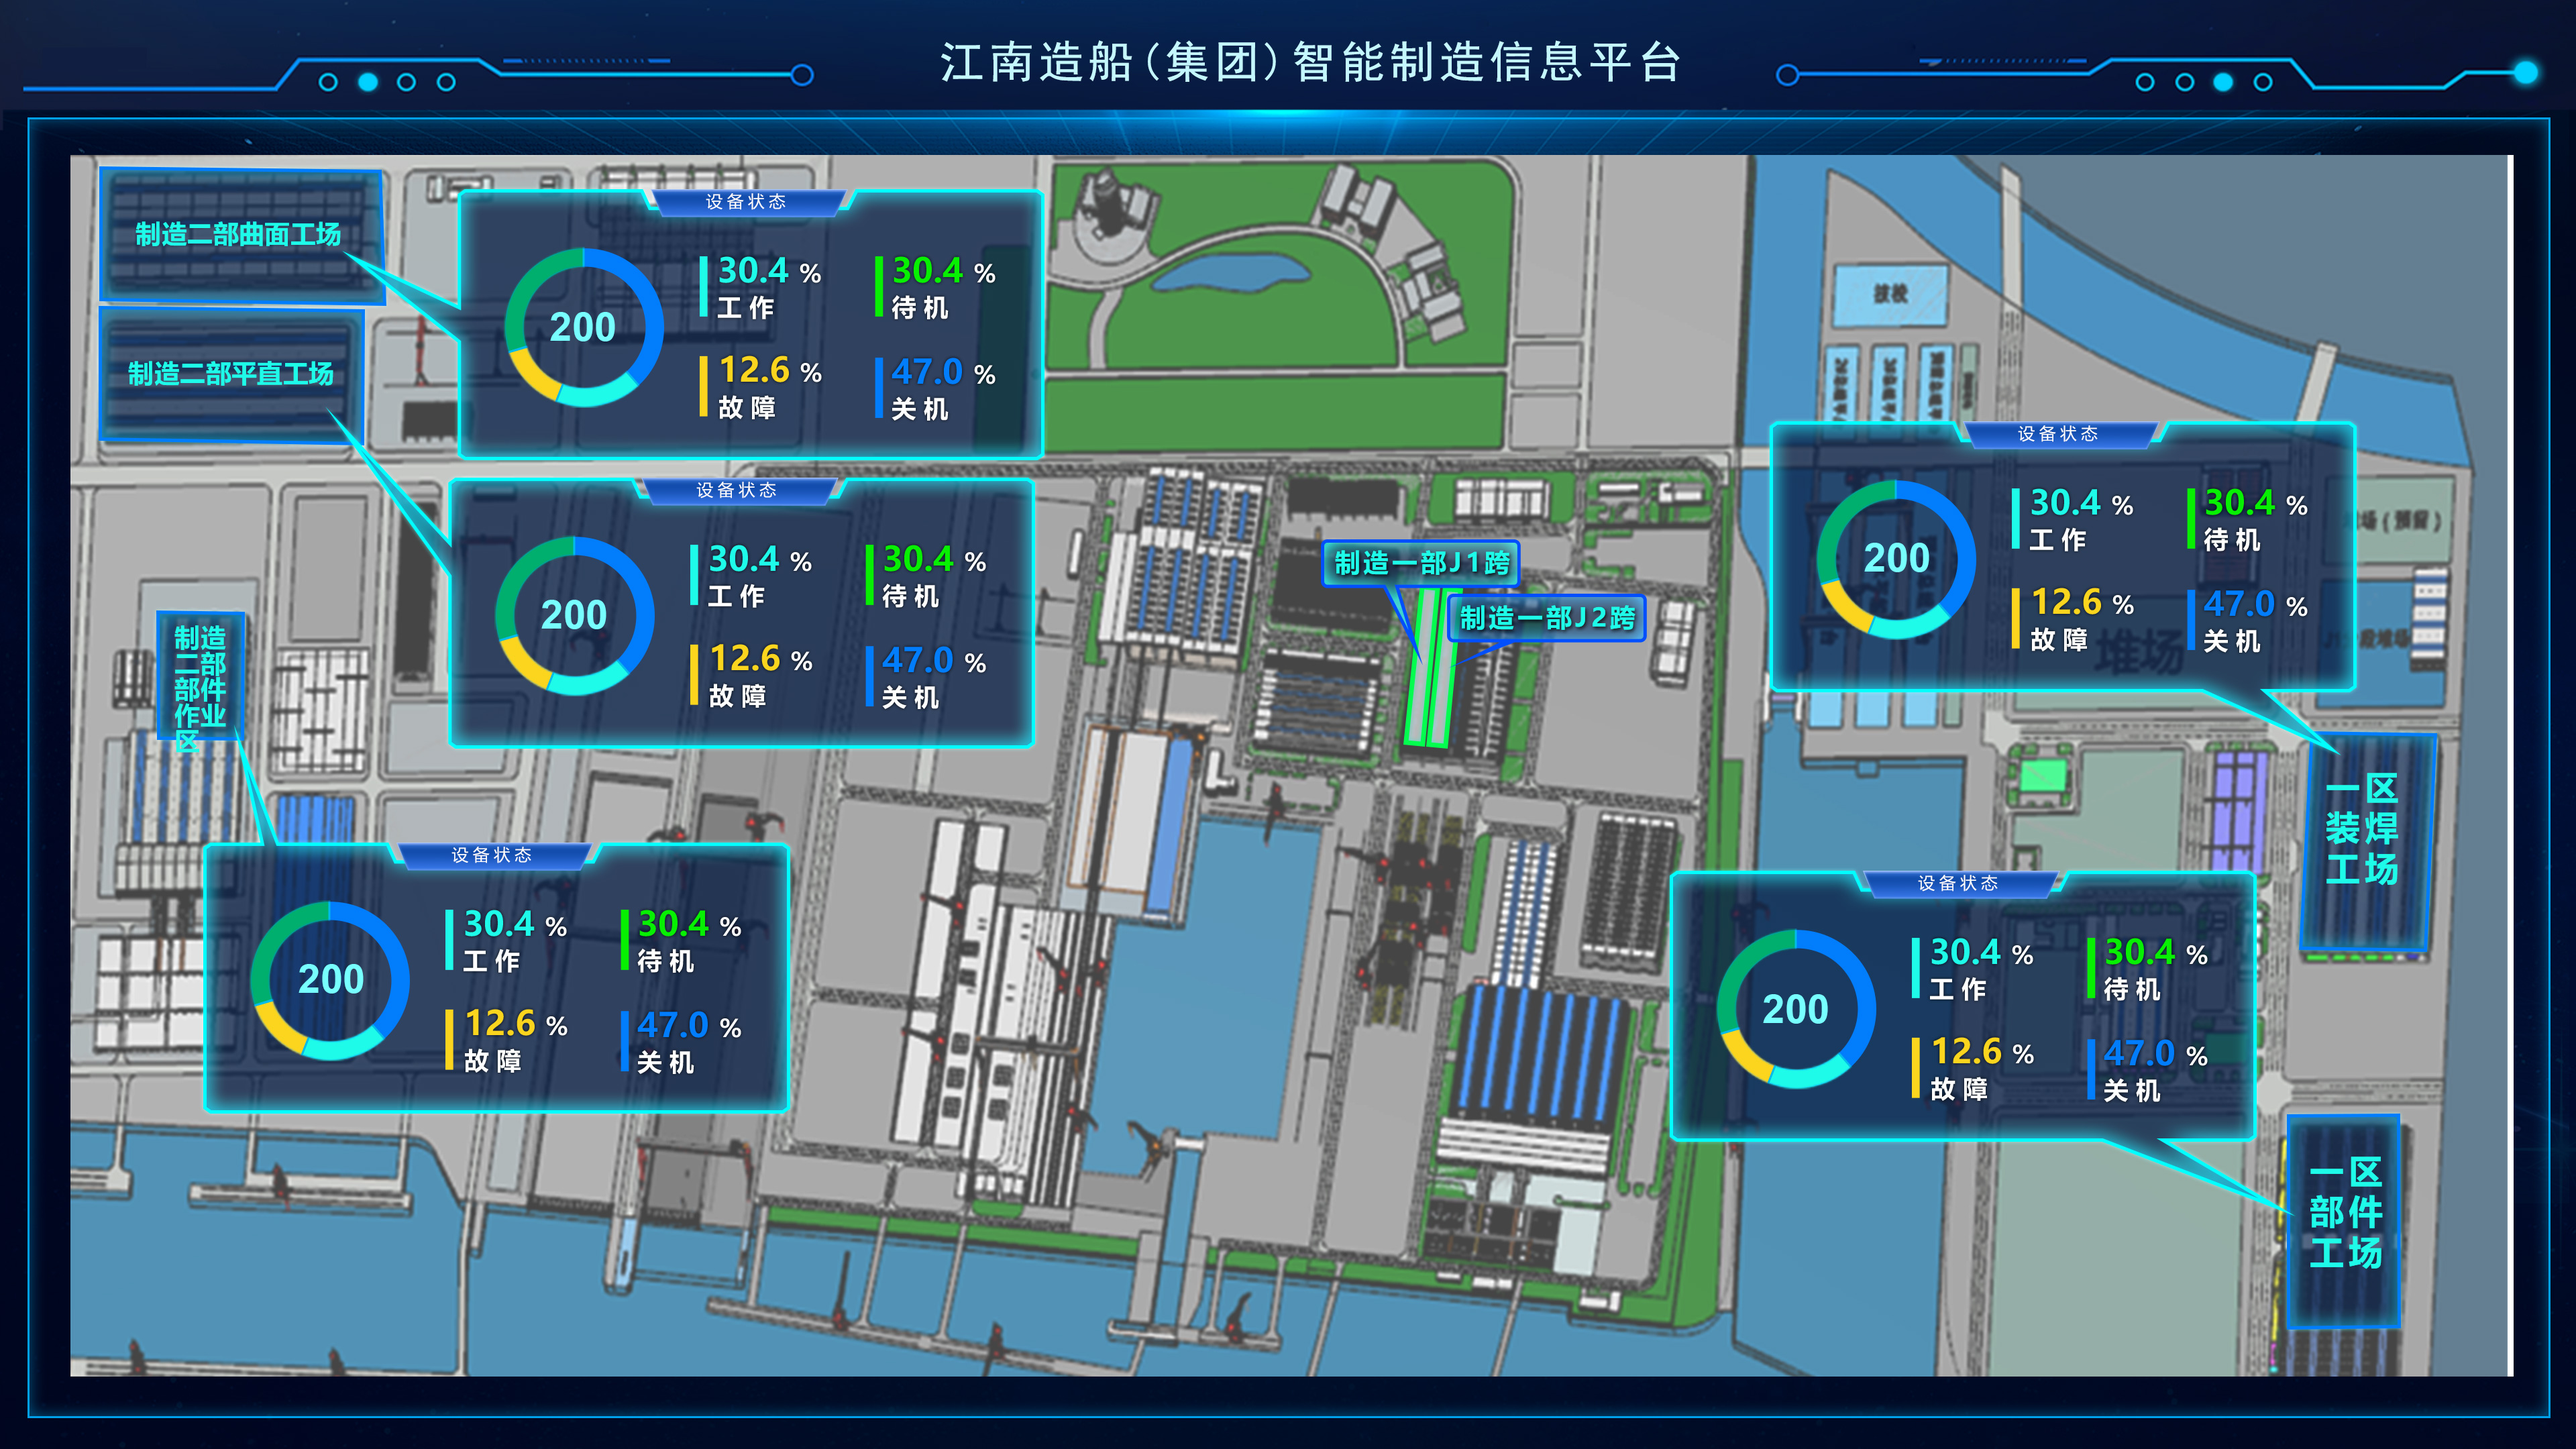
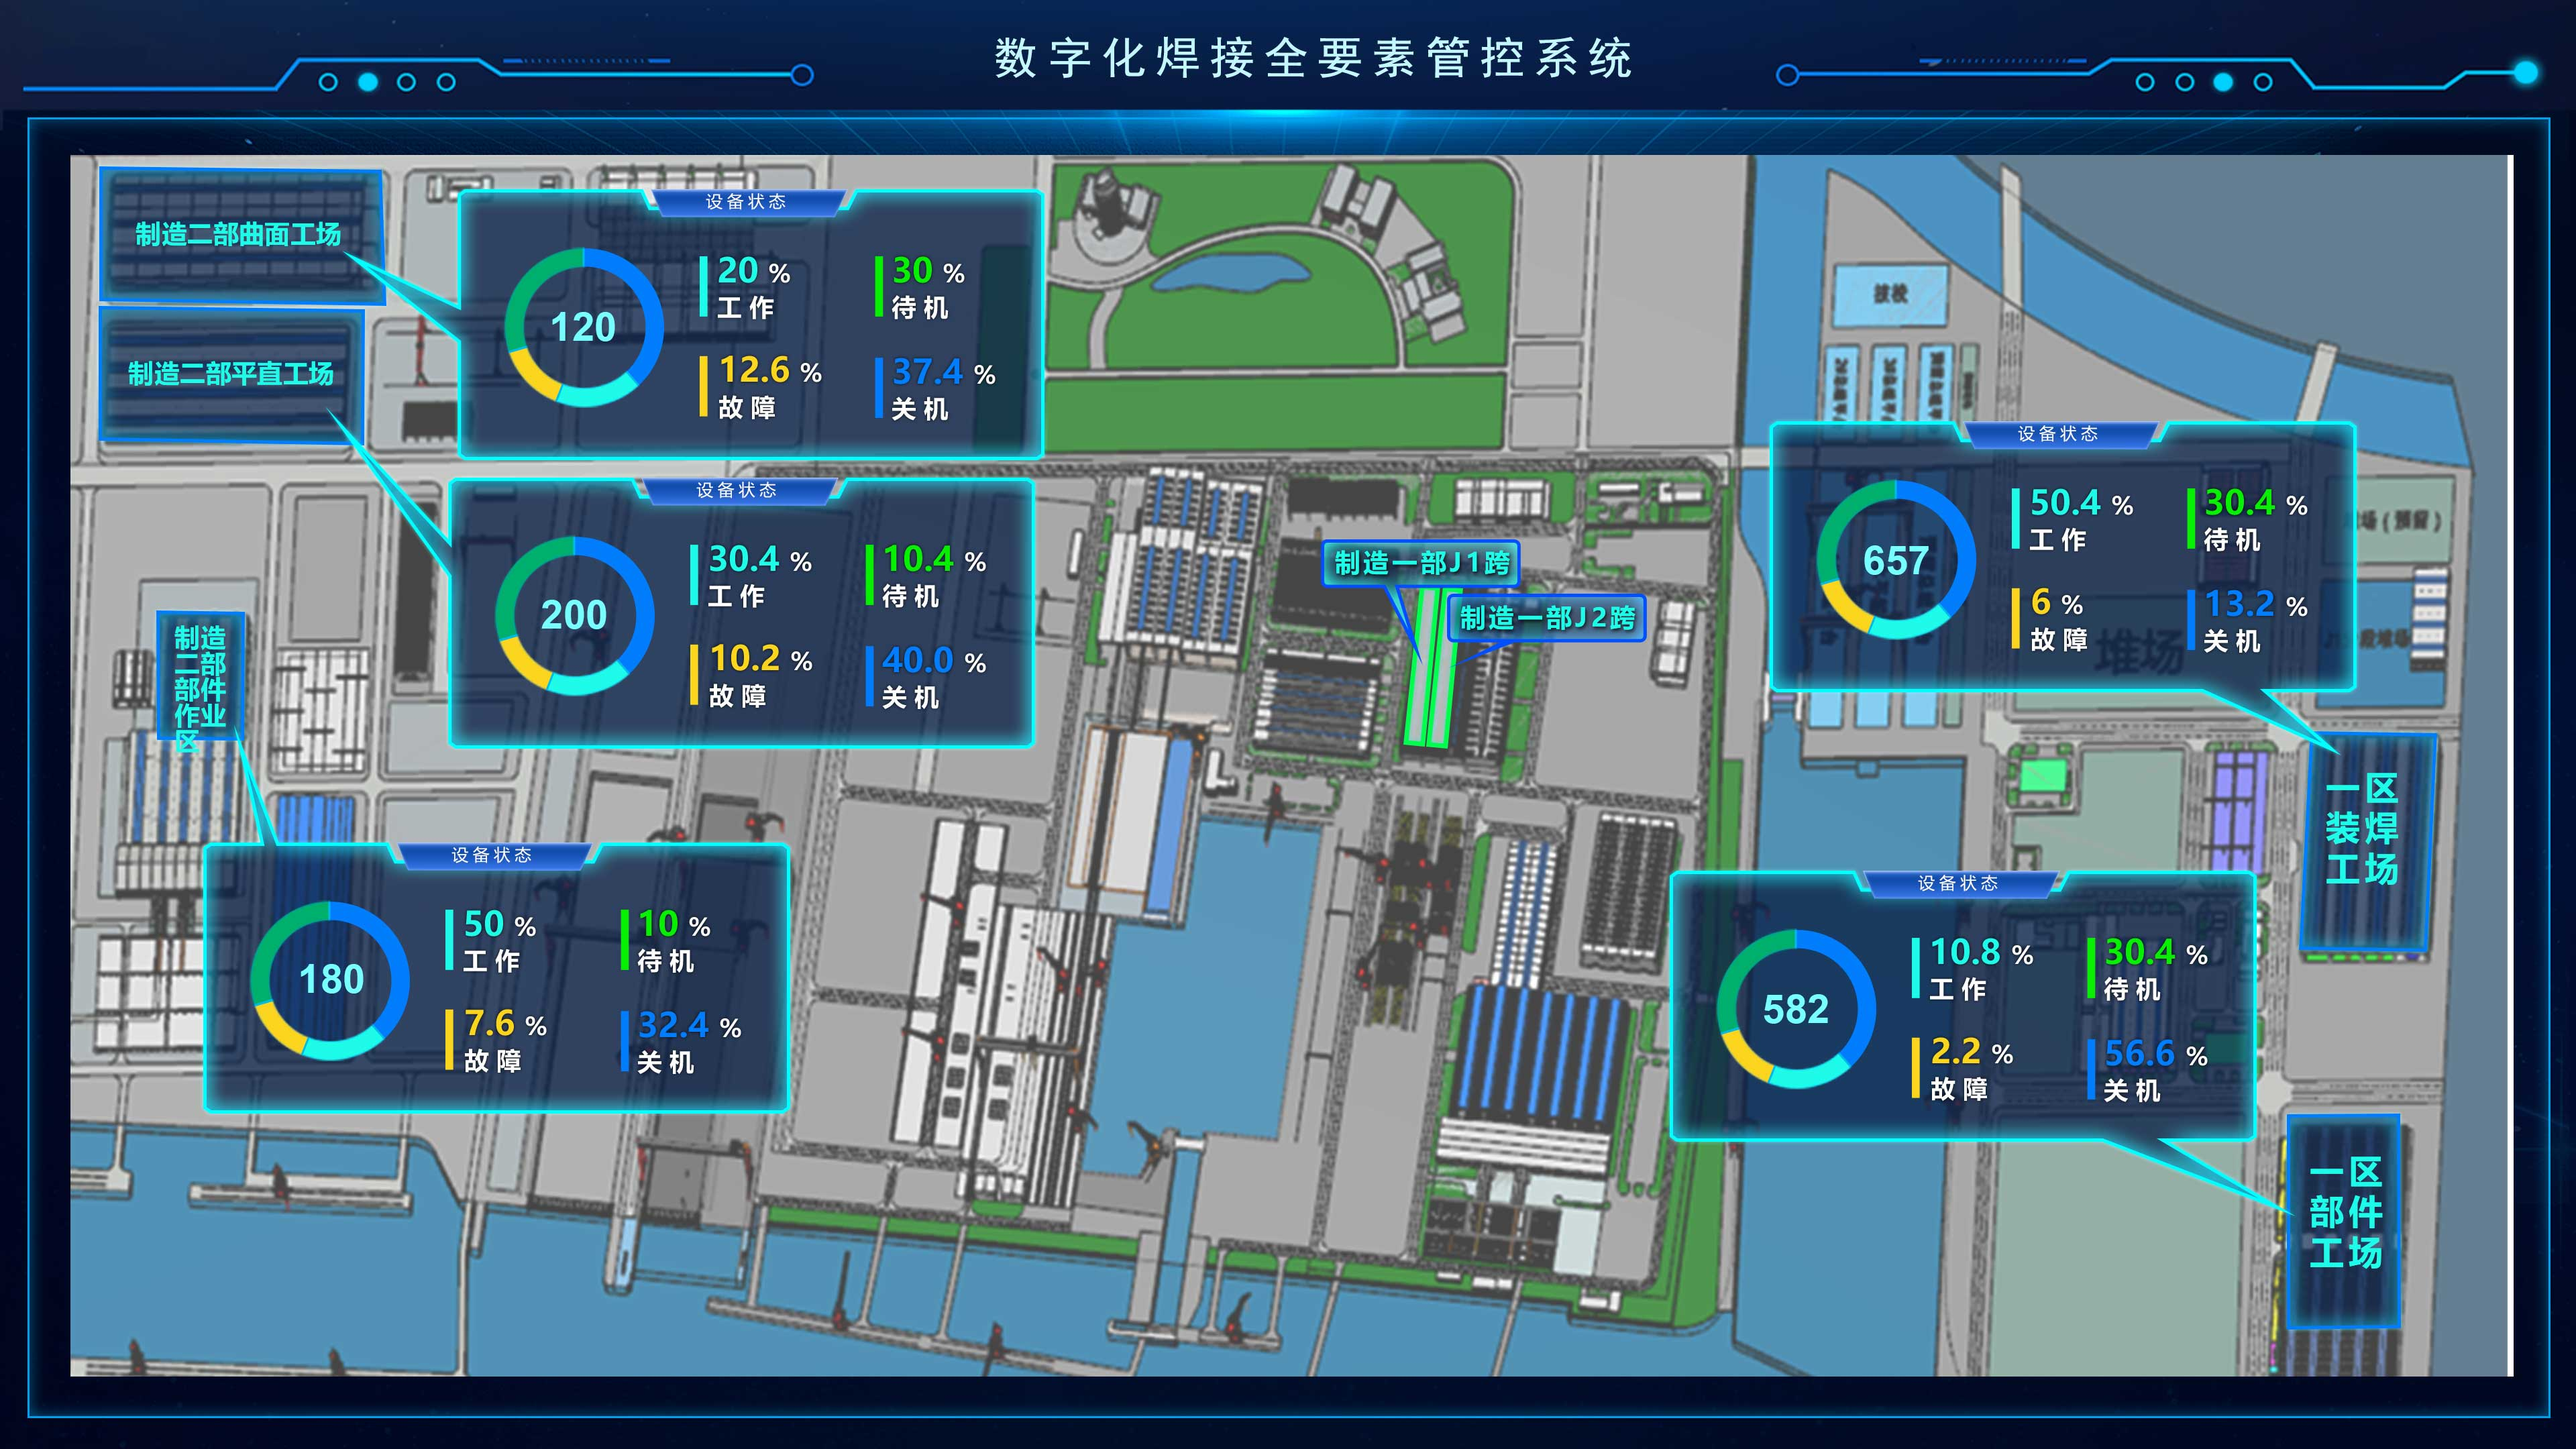
add

diff --git a/vue-admin/src/views/login/index.vue b/vue-admin/src/views/login/index.vue
@@ -3,7 +3,7 @@
     <el-form ref="loginForm" :model="loginForm" :rules="loginRules" class="login-form" autocomplete="on" label-position="left">
 
       <div class="title-container">
-        <h3 class="title">云 智 能 焊 接 管 控 系 统</h3>
+        <h3 class="title">数 字 化 焊 接 全 要 素 管 控 系 统</h3>
       </div>
 
       <!--用户名输入框-->
@@ -247,6 +247,7 @@ export default {
         margin: 0px auto 40px auto;
         text-align: center;
         font-weight: bold;
+        text-shadow: 2px 2px 5px rgba(0,0,0,0.5);
       }
     }
 

diff --git a/vue-admin/src/views/production-equipment-management/show-task-list.vue b/vue-admin/src/views/production-equipment-management/show-task-list.vue
@@ -117,7 +117,7 @@
                     prop="taskNo"
                     label="任务编号"
                     align="left"
-                    min-width="100"
+                    min-width="160"
                     fixed="left"
                 >
                 <template
